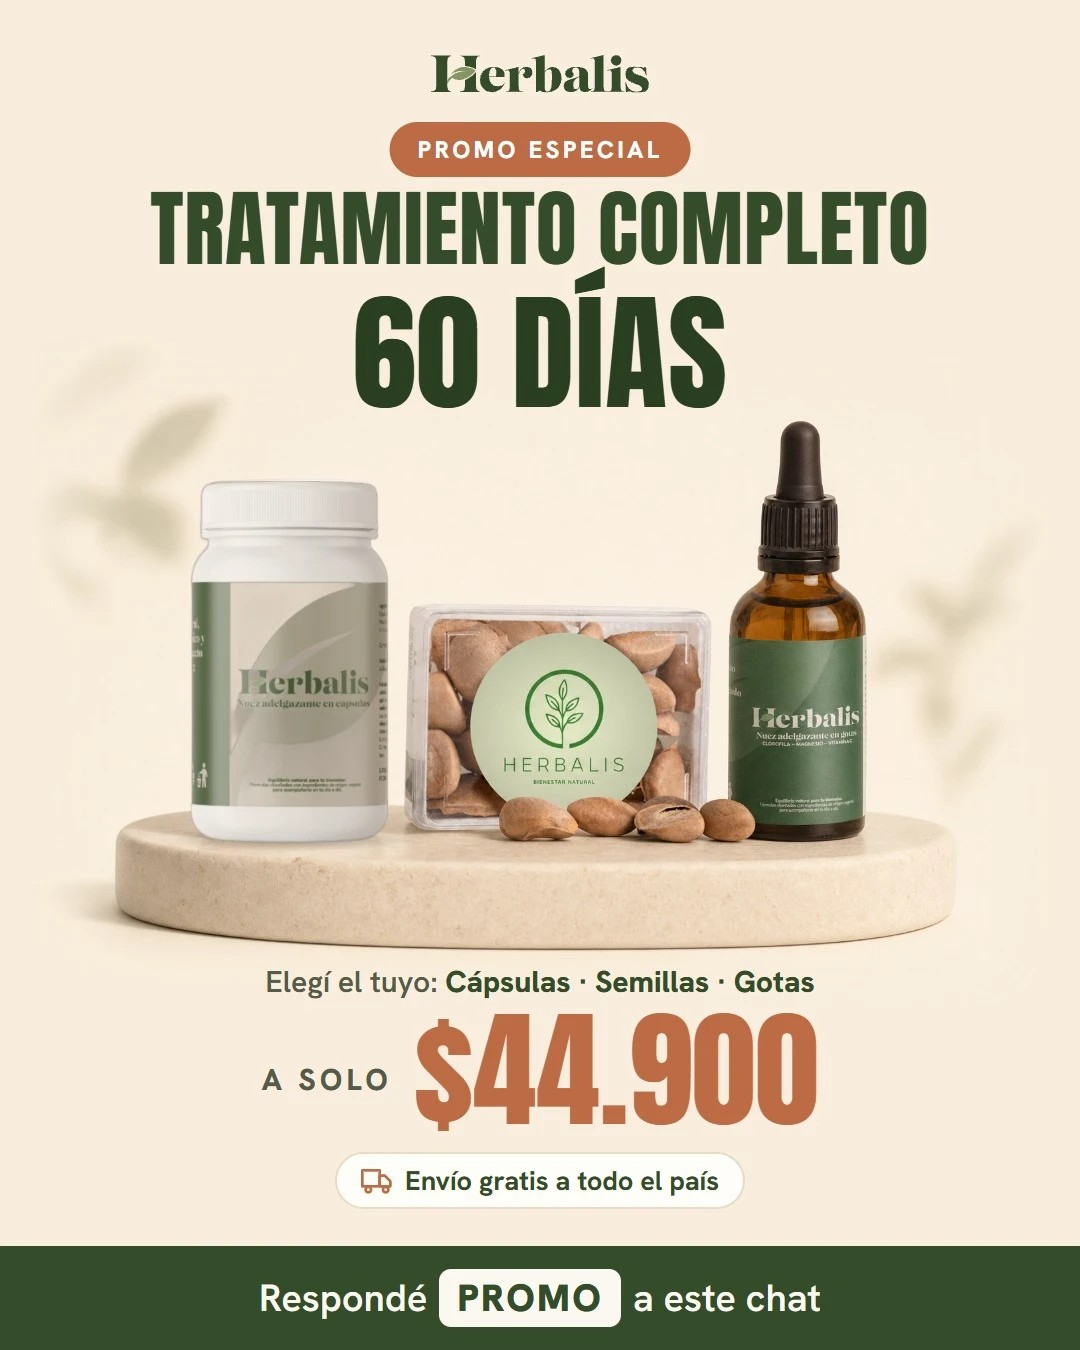
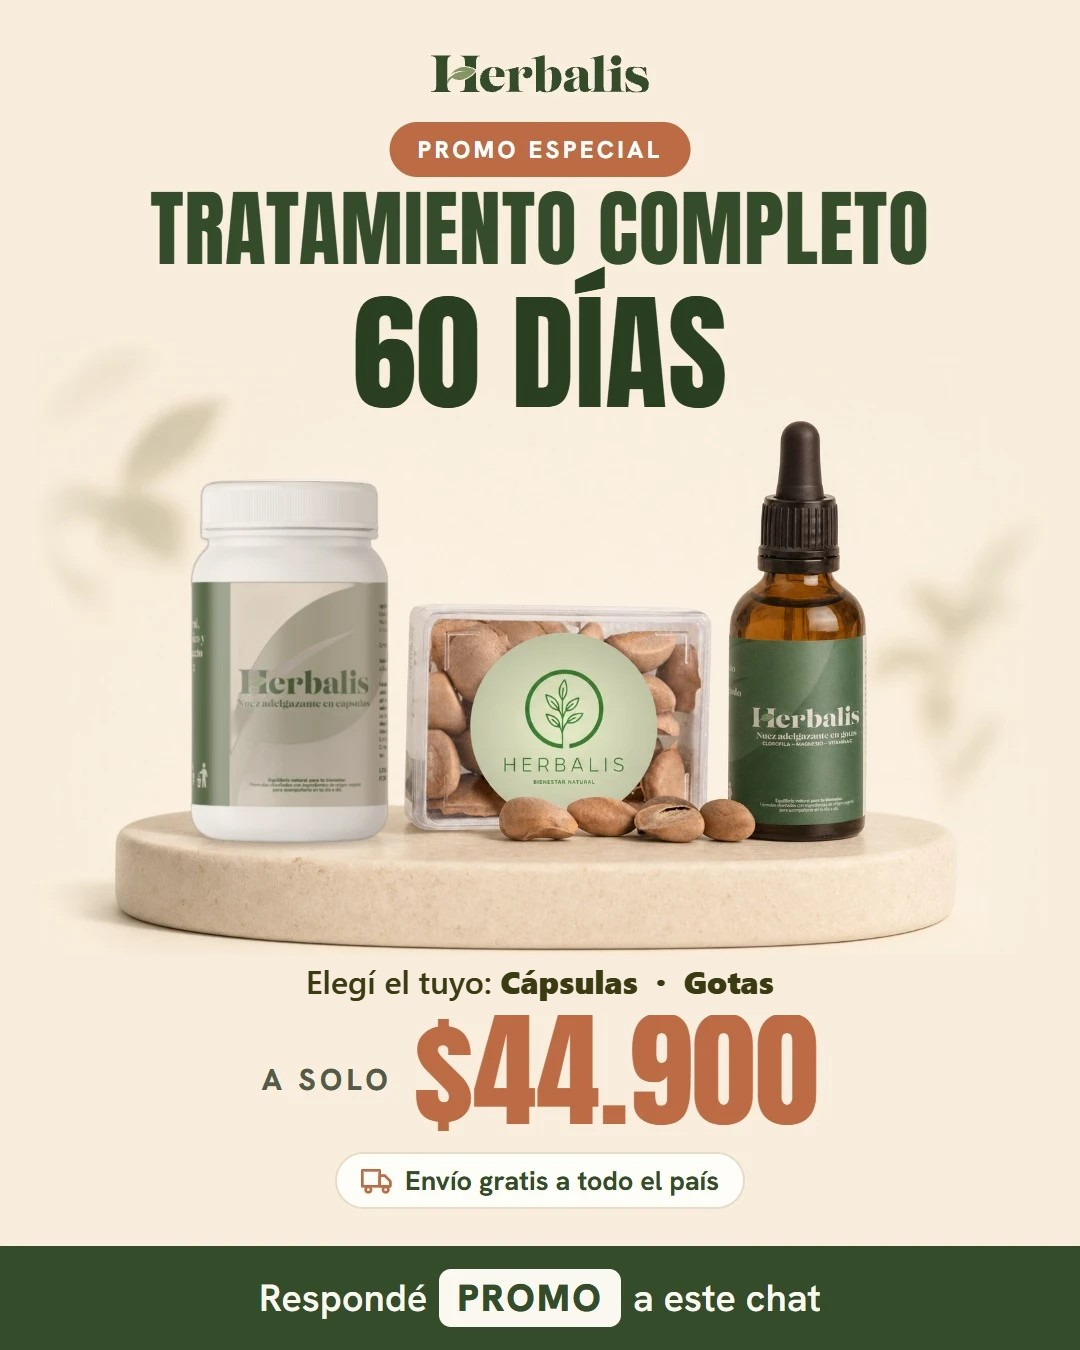
feat(promo): la promo es solo cápsulas o gotas; semillas a precio de lista
El guion de respuesta ofrece dos presentaciones; si el cliente pide semillas
se le aclara que no entran en la promo y se cobra el precio normal (menor).
El mensaje base, las variantes de plantilla y el prompt de la IA lo dicen, el
guion V7 sube a 8.6 (promo_product_confirm_semillas) y el flyer se retocó
para decir "Cápsulas · Gotas".

Changed region(s): [[0.2444, 0.7156, 0.7639, 0.7467]]

diff --git a/src/flows/steps/stepPromoOffer.ts b/src/flows/steps/stepPromoOffer.ts
@@ -62,10 +62,11 @@ function _detectProduct(normalizedText: string, knowledge: any): string | null {
 const DEFAULT_PRODUCT_ASK =
     '¡Buenísimo! 🎉 La promo es el tratamiento completo de *60 días* a *${{PROMO_60}}*, en la presentación que prefieras:\n\n' +
     '1⃣ *Cápsulas* — 1 al día, 30 min antes del almuerzo o la cena.\n' +
-    '2⃣ *Gotas* — 10 gotas al día, 30 min antes del almuerzo o la cena.\n' +
-    '3⃣ *Semillas* — una infusión antes de dormir.\n\n' +
-    'Las tres son 100% naturales y funcionan igual 🌿 ¿Con cuál arrancamos?';
+    '2⃣ *Gotas* — 10 gotas al día, 30 min antes del almuerzo o la cena.\n\n' +
+    'Las dos son 100% naturales y funcionan igual 🌿 ¿Con cuál arrancamos?';
 const DEFAULT_PRODUCT_CONFIRM = '¡Genial! 🎁 Te armo el plan de *60 días* de *{{PRODUCT_SHORT}}* a *${{TOTAL}}* (precio promo).';
+// Las semillas no entran en la promo: van a su precio de lista (que es más bajo).
+const DEFAULT_PRODUCT_CONFIRM_SEMILLAS = '¡Dale! Las *semillas* no entran en la promo, pero van a su precio normal, que es menor: plan de *60 días* a *${{TOTAL}}*, con envío gratis igual 🌿';
 const DEFAULT_DECLINED = 'Todo bien, ¡gracias por responderme! 😊 Si más adelante querés retomarlo, escribime por acá nomás.';
 const DEFAULT_OPTED_OUT = 'Listo, no te escribo más. ¡Que estés muy bien! 🙏';
 
@@ -101,7 +102,10 @@ async function _chooseProduct(userId: string, product: string, currentState: Use
     _setStep(currentState, FlowStep.WAITING_PAYMENT_METHOD);
     saveState(userId);
 
-    const confirm = _render(_tpl('promo_product_confirm', knowledge, DEFAULT_PRODUCT_CONFIRM), currentState);
+    const isSemillas = /semilla/i.test(product);
+    const confirm = isSemillas
+        ? _render(_tpl('promo_product_confirm_semillas', knowledge, DEFAULT_PRODUCT_CONFIRM_SEMILLAS), currentState)
+        : _render(_tpl('promo_product_confirm', knowledge, DEFAULT_PRODUCT_CONFIRM), currentState);
     await sendMessageWithDelay(userId, confirm);
     const paymentMsg = buildPaymentMessage(currentState, knowledge, !isMpEnabled(dependencies.config));
     await sendMessageWithDelay(userId, paymentMsg);
@@ -182,10 +186,10 @@ export async function handlePromoOffer(
     const mpOn = isMpEnabled(dependencies.config);
     const goal =
         `El cliente recibió de nuestra parte un mensaje de PROMO (le escribimos nosotros primero, porque meses atrás consultó y no compró) y acaba de responder: "${text}". ` +
-        `LA PROMO: tratamiento completo de *60 días* a *$${price}* en Cápsulas o Gotas (las Semillas de 60 días ya cuestan menos y quedan a su precio de lista). Envío gratis a todo el país. ` +
+        `LA PROMO: tratamiento completo de *60 días* a *$${price}* en *Cápsulas* o *Gotas* solamente. Las Semillas NO entran en la promo: si las pide, van a su precio de lista normal (que es menor), aclarándoselo. Envío gratis a todo el país. ` +
         `Cómo se paga: *retiro en sucursal de Correo Argentino* pagando el total en efectivo al retirar (sin adelantar nada), o *envío a domicilio* prepago por ${mpOn ? 'tarjeta de crédito o transferencia' : 'transferencia'}. ` +
         `🛑 En esta conversación el precio del plan de 60 días es $${price}: NO cites el precio de lista del plan de 60. El plan de 120 días sigue a su precio de lista normal (solo si lo pide). ` +
-        `Tu tarea: (1) respondé su consulta u objeción con calidez, honestidad y BREVEDAD, sin inventar nada; (2) cerrá con UNA sola pregunta: con qué presentación arranca, cápsulas, gotas o semillas. ` +
+        `Tu tarea: (1) respondé su consulta u objeción con calidez, honestidad y BREVEDAD, sin inventar nada; (2) cerrá con UNA sola pregunta: con qué presentación arranca, cápsulas o gotas. ` +
         `Si elige una presentación, devolvé en extractedData "PRODUCTO: Cápsulas" / "PRODUCTO: Gotas" / "PRODUCTO: Semillas" y goalMet=true. Si dice que no le interesa, despedite cordialmente sin insistir y devolvé extractedData "PROMO_DECLINED". 🛑 NO derives al médico salvo contraindicación real.`;
 
     try {

diff --git a/src/services/promo/promoVariation.ts b/src/services/promo/promoVariation.ts
@@ -18,7 +18,7 @@ import { firstNameFor } from './promoTemplates';
 export const DEFAULT_BASE_MESSAGE =
     'Hola 👋 ¡Espero que estés muy bien!\n\n' +
     'Te escribo porque nos quedó pendiente tu consulta sobre el tratamiento. Sabemos que empezar a cuidarse a veces cuesta, por eso preparamos una oportunidad única para que puedas probarlo:\n\n' +
-    '🎁 Tratamiento completo por 60 días a solo ${{PROMO_60}}.-\n\n' +
+    '🎁 Tratamiento completo por 60 días (cápsulas o gotas) a solo ${{PROMO_60}}.-\n\n' +
     'Para que compres con total tranquilidad:\n' +
     '🚚 Envío gratis a todo el país.\n' +
     '🤝 Pago contra entrega: Pagás recién cuando recibís el paquete en tu puerta.\n\n' +
@@ -41,7 +41,7 @@ const STYLE_HINTS = [
 const SYSTEM = `Sos Elena, vendedora de Herbalis (Argentina). Te pasan un mensaje de WhatsApp que ya está escrito y tenés que devolver UNA reescritura con ligeras diferencias, como si la misma persona lo escribiera de nuevo sin copiarlo: cambiá palabras por sinónimos, el orden de algunas frases, los emojis, el saludo y el cierre.
 
 Reglas que no se negocian:
-- Mantené EXACTAMENTE el precio tal cual aparece (con el signo $ y los puntos), la duración del tratamiento, "envío gratis a todo el país", el pago contra entrega y que las unidades son limitadas.
+- Mantené EXACTAMENTE el precio tal cual aparece (con el signo $ y los puntos), la duración del tratamiento, que la promo es en cápsulas o gotas (si el original lo dice), "envío gratis a todo el país", el pago contra entrega y que las unidades son limitadas.
 - La respuesta que se le pide al cliente es la palabra PROMO, en mayúsculas, siempre.
 - No agregues datos, descuentos, plazos, productos ni promesas que no estén en el original. No inventes el nombre del cliente: si te lo dan, usalo una vez; si no, no lo pongas.
 - Español rioplatense con voseo, tono cálido, 1 a 3 emojis en total, sin markdown salvo *negrita* opcional en el precio o en PROMO.

diff --git a/src/services/promo/promoTemplates.ts b/src/services/promo/promoTemplates.ts
@@ -63,12 +63,12 @@ export const DEFAULT_PROMO_TEMPLATES: PromoTemplates = {
         'Para que puedas probarlo sin pensarlo tanto, armamos esto por tiempo limitado:',
     ],
     offer: [
-        '🎁 Tratamiento completo por 60 días a solo ${{PROMO_60}}.-',
-        '🎁 Plan completo de *60 días* por ${{PROMO_60}}',
-        '🎁 *60 días de tratamiento* por ${{PROMO_60}} (precio promo)',
-        '🎁 El tratamiento completo de 60 días, a ${{PROMO_60}} nada más.',
-        '🎁 Tratamiento de 60 días completo: ${{PROMO_60}}.-',
-        '🎁 60 días de tratamiento por solo ${{PROMO_60}}',
+        '🎁 Tratamiento completo por 60 días (cápsulas o gotas) a solo ${{PROMO_60}}.-',
+        '🎁 Plan completo de *60 días* en cápsulas o gotas por ${{PROMO_60}}',
+        '🎁 *60 días de tratamiento* (cápsulas o gotas) por ${{PROMO_60}} (precio promo)',
+        '🎁 El tratamiento completo de 60 días, en cápsulas o gotas, a ${{PROMO_60}} nada más.',
+        '🎁 Tratamiento de 60 días completo, cápsulas o gotas: ${{PROMO_60}}.-',
+        '🎁 60 días de tratamiento en cápsulas o gotas por solo ${{PROMO_60}}',
     ],
     reassure: [
         'Para que compres con total tranquilidad:\n🚚 Envío gratis a todo el país.\n🤝 Pagás al recibirlo: no adelantás nada, lo abonás cuando lo tenés en tus manos.',

diff --git a/tests/promo_step.test.js b/tests/promo_step.test.js
@@ -54,7 +54,8 @@ describe('promo_offer', () => {
         expect(st.step).toBe('promo_offer');
         expect(sent(d)).toHaveLength(1);
         expect(sent(d)[0]).toMatch(/44\.900/);
-        expect(sent(d)[0]).toMatch(/Cápsulas[\s\S]*Gotas[\s\S]*Semillas/);
+        expect(sent(d)[0]).toMatch(/Cápsulas[\s\S]*Gotas/);
+        expect(sent(d)[0]).not.toMatch(/Semillas/); // la promo es solo cápsulas o gotas
         expect(sent(d)[0]).not.toMatch(/kilos/i);
         expect(st.promo.outcome).toBe('interested');
         expect(st.promo.repliedAt).toBeTruthy();
@@ -76,6 +77,7 @@ describe('promo_offer', () => {
         expect(st.totalPrice).toBe(price);
         expect(sent(d)).toHaveLength(2);
         expect(sent(d)[0]).toMatch(new RegExp(price.replace('.', '\\.')));
+        if (/semilla/i.test(product)) expect(sent(d)[0]).toMatch(/no entran en la promo/i); else expect(sent(d)[0]).toMatch(/precio promo/);
         expect(sent(d)[1]).toMatch(/Retiro en sucursal/i);
         expect(sent(d)[1]).toMatch(/domicilio/i);
     });

diff --git a/CLAUDE.md b/CLAUDE.md
@@ -124,7 +124,9 @@ Máquina de estados lineal con fallbacks a IA. Orden típico:
   manda de a uno desde un cron por minuto del scheduler: ventana horaria ARG, tope diario,
   pausa sorteada entre envíos, cortes largos, y re-validación del destinatario al momento de
   mandar. La respuesta cae en el step `promo_offer` (`stepPromoOffer.ts`): sin kilos, elige
-  presentación y pasa directo al menú de pago. Mientras `state.promo.active`, el plan 60 se
+  presentación y pasa directo al menú de pago. La promo es SOLO cápsulas o gotas (decisión
+  del 10-oct): las semillas, si las piden, van a su precio de lista y el bot lo aclara
+  (`promo_product_confirm_semillas`); el flyer de `public/promo/` ya dice "Cápsulas · Gotas". Mientras `state.promo.active`, el plan 60 se
   cotiza con `_getEffectivePrice(product, plan, state)` (pricing.ts): TODO lo que arma o
   verifica el cart tiene que usar esa función y no `_getPrice`, o la confirmación "corrige"
   el precio promo al de lista. Los rechazos pausan SIN alerta (`_quietPause`) y "no me
